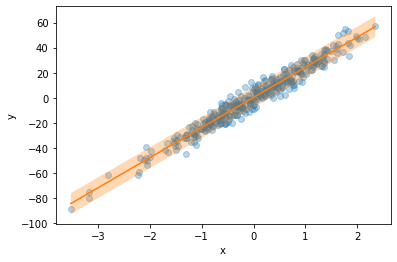
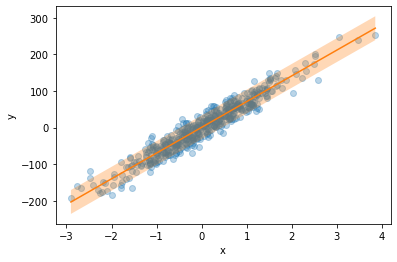
Modify rst files following PR comments.

diff --git a/doc/tutorial.rst b/doc/tutorial.rst
@@ -46,13 +46,17 @@ uniform distribution.
 
 .. code:: python
 
-    def get_1d_data_with_constant_noise(funct, min_x, max_x, n_samples, sig_noise):
+    def get_1d_data_with_constant_noise(funct, min_x, max_x, n_samples, noise):
+        """
+        Generate 1D noisy data with uniform distribution from given function 
+        and noise standard deviation.
+        """
         np.random.seed(59)
         X_train = np.linspace(min_x, max_x, n_samples)
-        X_test = np.linspace(np.min(X_train), np.max(X_train), n_samples*5)
+        X_test = np.linspace(min_x, max_x, n_samples*5)
         y_train, y_mesh, y_test = funct(X_train), funct(X_test), funct(X_test)
-        y_train += np.random.normal(0, sig_noise, y_train.shape[0])
-        y_test += np.random.normal(0, sig_noise, y_test.shape[0])
+        y_train += np.random.normal(0, noise, y_train.shape[0])
+        y_test += np.random.normal(0, noise, y_test.shape[0])
         return X_train.reshape(-1, 1), y_train, X_test.reshape(-1, 1), y_test, y_mesh
 
 We first generate noisy one-dimensional data obtained through a uniform distribution. 
@@ -61,9 +65,9 @@ over :math:`x`.
 
 .. code:: python
 
-    min_x, max_x, n_samples, sig_noise = -5, 5, 100, 0.5
+    min_x, max_x, n_samples, noise = -5, 5, 100, 0.5
     X_train, y_train, X_test, y_test, y_mesh = get_1d_data_with_constant_noise(
-        x_sinx, min_x, max_x, n_samples, sig_noise
+        x_sinx, min_x, max_x, n_samples, noise
     )
 
 Let's visualize our noisy function. 
@@ -100,12 +104,12 @@ in order to obtain a 95% confidence for our prediction intervals.
 
     allmethods = ['naive', 'jackknife', 'jackknife_plus', 'jackknife_minmax' , 'cv', 'cv_plus', 'cv_minmax']
     predintervs = {}
-    for im, method in enumerate(allmethods):
-        predinterv = MapieRegressor(
+    for method in allmethods:
+        mapie = MapieRegressor(
             polyn_model, alpha=0.05, method=method, n_splits=5, return_pred='single'
         )
-        predinterv.fit(X_train, y_train)
-        predintervs[method] = predinterv.predict(X_test)
+        mapie.fit(X_train, y_train)
+        predintervs[method] = mapie.predict(X_test)
 
 Let’s now compare the confidence intervals with the predicted intervals with obtained 
 by the Jackknife+, Jackknife-minmax, CV+, and CV-minmax methods.
@@ -128,8 +132,8 @@ by the Jackknife+, Jackknife-minmax, CV+, and CV-minmax methods.
         ax.fill_between(X_test, y_pred_low, y_pred_up, alpha=0.3)
         ax.scatter(X_train, y_train, color='red', alpha=0.3, label='Training data')
         ax.plot(X_test, y_test, color='gray', label='True confidence intervals')
-        ax.plot(X_test, y_test-y_sigma, color='gray', ls='--')
-        ax.plot(X_test, y_test+y_sigma, color='gray', ls='--')
+        ax.plot(X_test, y_test - y_sigma, color='gray', ls='--')
+        ax.plot(X_test, y_test + y_sigma, color='gray', ls='--')
         ax.plot(X_test, y_pred, color='blue', alpha=0.5, label='Prediction intervals')
         if title is not None:
             ax.set_title(title)
@@ -137,21 +141,21 @@ by the Jackknife+, Jackknife-minmax, CV+, and CV-minmax methods.
 
 .. code:: python
 
-    methods2plot = ['jackknife_plus', 'jackknife_minmax' , 'cv_plus', 'cv_minmax']
+    methods = ['jackknife_plus', 'jackknife_minmax' , 'cv_plus', 'cv_minmax']
     n_figs = len(methods)
     fig, axs = plt.subplots(2, 2, figsize=(13, 12))
     coords = [axs[0, 0], axs[0, 1], axs[1, 0], axs[1, 1]]
-    for im, method in enumerate(methods2plot):
+    for method, coord in zip(methods, coords): 
         plot_1d_data(
             X_train.ravel(),
             y_train.ravel(), 
             X_test.ravel(),
             y_mesh.ravel(),
-            1.96*sig_noise, 
+            1.96*noise, 
             predintervs[method][:, 0].ravel(),
             predintervs[method][:, 1].ravel(),
             predintervs[method][:, 2].ravel(),
-            ax=coords[im],
+            ax=coord,
             title=method
         )
 
@@ -166,12 +170,12 @@ Let’s confirm this by comparing the prediction interval widths over
 .. code:: python
 
     fig, ax = plt.subplots(1, 1, figsize=(7, 5))
-    for im, method in enumerate(methods):
+    for method in methods:
         ax.plot(X_test, predintervs[method][:, 2] - predintervs[method][:, 1])
-    ax.axhline(1.96*2*sig_noise, ls='--', color='k')
+    ax.axhline(1.96*2*noise, ls='--', color='k')
     ax.set_xlabel("x")
     ax.set_ylabel("Prediction Interval Width")
-    ax.legend(methods+["True width"], fontsize=8)
+    ax.legend(methods + ["True width"], fontsize=8)
 
 .. image:: images/tuto_3.png
     :align: center
@@ -271,20 +275,24 @@ Lets' start by generating and showing the data.
 
 .. code:: python
 
-    def get_1d_data_with_normal_distrib(funct, mu, sig, n_samples, sig_noise):
+    def get_1d_data_with_normal_distrib(funct, mu, sigma, n_samples, noise):
+        """
+        Generate noisy 1D data with normal distribution from given function 
+        and noise standard deviation.
+        """
         np.random.seed(59)
-        X_train = npr.normal(mu, sig, n_samples)
-        X_test = np.arange(mu-4*sig, mu+4*sig, sig/20.)
+        X_train = np.random.normal(mu, sigma, n_samples)
+        X_test = np.arange(mu-4*sigma, mu+4*sigma, sig/20.)
         y_train, y_mesh, y_test = funct(X_train), funct(X_test), funct(X_test)
-        y_train += np.random.normal(0, sig_noise, y_train.shape[0])
-        y_test += np.random.normal(0, sig_noise, y_test.shape[0])
+        y_train += np.random.normal(0, noise, y_train.shape[0])
+        y_test += np.random.normal(0, noise, y_test.shape[0])
         return X_train.reshape(-1, 1), y_train, X_test.reshape(-1, 1), y_test, y_mesh
 
 .. code:: python
 
-    mu = 0 ; sig = 2 ; n_samples = 300 ; sig_noise = 0.
+    mu = 0 ; sigma = 2 ; n_samples = 300 ; noise = 0.
     X_train, y_train, X_test, y_test, y_mesh = get_1d_data_with_normal_distrib(
-        x_sinx, mu, sig, n_samples, sig_noise
+        x_sinx, mu, sigma, n_samples, noise
     )
 
 .. code:: python
@@ -304,12 +312,12 @@ methods.
 
     allmethods = ['naive', 'jackknife', 'jackknife_plus', 'jackknife_minmax' , 'cv', 'cv_plus', 'cv_minmax']
     predintervs = {}
-    for im, method in enumerate(allmethods):
-        predinterv = MapieRegressor(
+    for method in allmethods:
+        mapie = MapieRegressor(
             polyn_model, alpha=0.05, method=method, n_splits=5, return_pred='single'
         )
-        predinterv.fit(X_train, y_train)
-        predintervs[method] = predinterv.predict(X_test)
+        mapie.fit(X_train, y_train)
+        predintervs[method] = mapie.predict(X_test)
 
 
 .. code:: python
@@ -318,17 +326,17 @@ methods.
     n_figs = len(methods2plot)
     fig, axs = plt.subplots(2, 2, figsize=(13, 12))
     coords = [axs[0, 0], axs[0, 1], axs[1, 0], axs[1, 1]]
-    for im, method in enumerate(methods2plot):
+    for method, coord in zip(methods2plot, coords): 
         plot_1d_data(
             X_train.ravel(),
             y_train.ravel(), 
             X_test.ravel(),
             y_mesh.ravel(),
-            1.96*sig_noise, 
+            1.96*noise, 
             predintervs[method][:, 0].ravel(),
             predintervs[method][:, 1].ravel(),
             predintervs[method][:, 2].ravel(), 
-            ax=coords[im],
+            ax=coord,
             title=method
         )
 
@@ -347,11 +355,12 @@ Let's now compare the prediction interval widths between all methods.
 
     fig, ax = plt.subplots(1, 1, figsize=(7, 5))
     ax.set_yscale("log")
-    for im, method in enumerate(allmethods):
-        ax.plot(X_test, predintervs[method][:, 2]-predintervs[method][:, 1])
-    ax.axhline(1.96*2*sig_noise, ls='--', color='k')
-    ax.set_xlabel("x") ; ax.set_ylabel("Prediction Interval Width")
-    ax.legend(allmethods+["True width"], fontsize=8)
+    for method in allmethods:
+        ax.plot(X_test, predintervs[method][:, 2] - predintervs[method][:, 1])
+    ax.axhline(1.96*2*noise, ls='--', color='k')
+    ax.set_xlabel("x")
+    ax.set_ylabel("Prediction Interval Width")
+    ax.legend(allmethods + ["True width"], fontsize=8)
 
 .. image:: images/tuto_6.png
     :align: center
@@ -453,8 +462,10 @@ uniform distribution.
 
 .. code:: python
 
-    min_x, max_x, n_samples, sig_noise = -5, 5, 100, 0.5
-    X_train, y_train, X_test, y_test, y_mesh = get_1d_data_with_constant_noise(x_sinx, min_x, max_x, n_samples, sig_noise)
+    min_x, max_x, n_samples, noise = -5, 5, 100, 0.5
+    X_train, y_train, X_test, y_test, y_mesh = get_1d_data_with_constant_noise(
+        x_sinx, min_x, max_x, n_samples, noise
+    )
 
 .. code:: python
 
@@ -479,7 +490,7 @@ the Multilayer Perceptron has two hidden dense layers with 20 neurons each follo
             Dense(units=20, activation="relu"),
             Dense(units=1)
         ])
-        model.compile(loss='mean_squared_error', optimizer='adam') #, metrics=['accuracy']
+        model.compile(loss='mean_squared_error', optimizer='adam')
         return model
 
 .. code:: python
@@ -510,32 +521,31 @@ and compare their prediction interval.
 
 .. code:: python
 
-    methods = ['cv_plus']
     models = [polyn_model, xgb_model, mlp_model]
     model_names = ['polyn', 'xgb', 'mlp']
     predintervs = {}
-    for im, model in enumerate(models):
-        predinterv = MapieRegressor(
-            model, alpha=0.05, method=method, n_splits=5, return_pred='median'
+    for name, model in zip(model_names, models):
+        mapie = MapieRegressor(
+            model, alpha=0.05, method='cv_plus', n_splits=5, return_pred='median'
         )
-        predinterv.fit(X_train, y_train)
-        predintervs[model_names[im]] = predinterv.predict(X_test)
+        mapie.fit(X_train, y_train)
+        predintervs[name] = mapie.predict(X_test)
 
 .. code:: python
 
     fig, axs = plt.subplots(1, 3, figsize=(20, 6))
-    for im, model in enumerate(models):
+    for name, ax in zip(model_names, axs): 
         plot_1d_data(
             X_train.ravel(),
             y_train.ravel(), 
             X_test.ravel(),
             y_mesh.ravel(),
-            1.96*sig_noise,
-            predintervs[model_names[im]][:, 0].ravel(),
-            predintervs[model_names[im]][:, 1].ravel(),
-            predintervs[model_names[im]][:, 2].ravel(), 
-            ax=axs[im],
-            title=model_names[im]
+            1.96*noise,
+            predintervs[name][:, 0].ravel(),
+            predintervs[name][:, 1].ravel(),
+            predintervs[name][:, 2].ravel(), 
+            ax=ax,
+            title=name
         )
 
 .. image:: images/tuto_8.png
@@ -544,11 +554,12 @@ and compare their prediction interval.
 .. code:: python
 
     fig, ax = plt.subplots(1, 1, figsize=(7, 5))
-    for im, model in enumerate(models):
-        ax.plot(X_test, predintervs[model_names[im]][:, 2]-predintervs[model_names[im]][:, 1])
-    ax.axhline(1.96*2*sig_noise, ls='--', color='k')
-    ax.set_xlabel("x") ; ax.set_ylabel("Prediction Interval Width")
-    ax.legend(model_names+["True width"], fontsize=8)
+    for name in model_names:
+        ax.plot(X_test, predintervs[name][:, 2] - predintervs[name][:, 1])
+    ax.axhline(1.96*2*noise, ls='--', color='k')
+    ax.set_xlabel("x")
+    ax.set_ylabel("Prediction Interval Width")
+    ax.legend(model_names + ["True width"], fontsize=8)
 
 .. image:: images/tuto_9.png
     :align: center

diff --git a/doc/quick_start.rst b/doc/quick_start.rst
@@ -26,24 +26,28 @@ To install directly from the github repository :
 2. Run MapieRegressor
 ---------------------
 
-Before calling MAPIE, we first define a sklearn-compatible regressor as well as training and test sets.
-MAPIE is compliant with the standard scikit-learn API.
+Let us start with a basic regression problem. 
+Here, we generate one-dimensional noisy data that we fit with a linear model.
 
 .. code:: python
+
+    import numpy as np
+    from sklearn.linear_model import LinearRegression
+    from sklearn.datasets import make_regression
 
     regressor = LinearRegression()
-    X_train, y_train = make_regression(n_samples=500, n_features=1)
-    y_train += np.random.normal(0, 5, y_train.shape[0])
-    X_test = np.linspace(X_train.min(), X_train.max(), 100).reshape(-1, 1)
+    X, y = make_regression(n_samples=500, n_features=1, noise=20)
 
-Like any scikit-learn regressor, MAPIE follows the following sequential ``fit`` and ``predict`` process. 
+Since MAPIE is compliant with the standard scikit-learn API, we follow the standard
+sequential ``fit`` and ``predict`` process  like any scikit-learn regressor.
 
 .. code:: python
 
-    from mapie import MapieRegressor
+    from simai.prediction_interval import PredictionInterval
     mapie = MapieRegressor(regressor)
-    mapie.fit(X_train, y_train)
-    y_preds = mapie.predict(X_test)
+    mapie.fit(X, y)
+    X_pi = np.linspace(X.min(), X.max(), 100).reshape(-1, 1)
+    y_preds = mapie.predict(X_pi)
 
 
 3. Show the results
@@ -58,9 +62,9 @@ The estimated prediction interval can be easily plotted as follows.
     from matplotlib import pyplot as plt
     plt.xlabel('x')
     plt.ylabel('y')
-    plt.scatter(X_train, y_train, alpha=0.3)
-    plt.plot(X_test, y_preds[:, 0], color='C1')
-    plt.fill_between(X_test.ravel(), y_preds[:, 1], y_preds[:, 2], alpha=0.3)
+    plt.scatter(X, y, alpha=0.3)
+    plt.plot(X_pi, y_preds[:, 0], color='C1')
+    plt.fill_between(X_pi.ravel(), y_preds[:, 1], y_preds[:, 2], alpha=0.3)
     plt.show()
 
 

diff --git a/doc/theoretical_description.rst b/doc/theoretical_description.rst
@@ -182,7 +182,7 @@ Key takeaways
 =============
 
 - The Jackknife+ method introduced by [1] allows the user to easily obtain theoretically guaranteed
-prediction intervals for any kind of sklearn-compatible Machine Learning regressor.
+  prediction intervals for any kind of sklearn-compatible Machine Learning regressor.
 
 - Since the typical coverage levels estimated by Jackknife+ follow very closely the target coverage levels,
   this method should be used when accurate and robust prediction intervals are required.
@@ -196,13 +196,17 @@ prediction intervals for any kind of sklearn-compatible Machine Learning regress
 - Although the CV+ method results in prediction intervals that are slightly larger than for the 
   Jackknife+ method, it offers a good compromise between computational time and accurate predictions. 
 
+- The Jackknife-minmax and CV-minmax methods are more conservative since they result in higher
+  theoretical and practical coverages due to the larger widths of the prediction intervals.
+  It is therefore advised to use them when conservative estimates are needed.
+
 The Table below summarizes the key features of each method by focusing on the obtained coverages and the
 computational cost. :math:`n`, :math:`n_{\rm test}`, and :math:`K` are the number of training samples,
 test samples, and cross-validated folds, respectively.
 
-.. image:: images/comp-methods.png
-    :width: 800
-    :align: center
+.. csv-table:: Key features of MAPIE methods (adapted from [1]).
+   :file: images/comp-methods.csv
+   :header-rows: 1
 
 
 References
